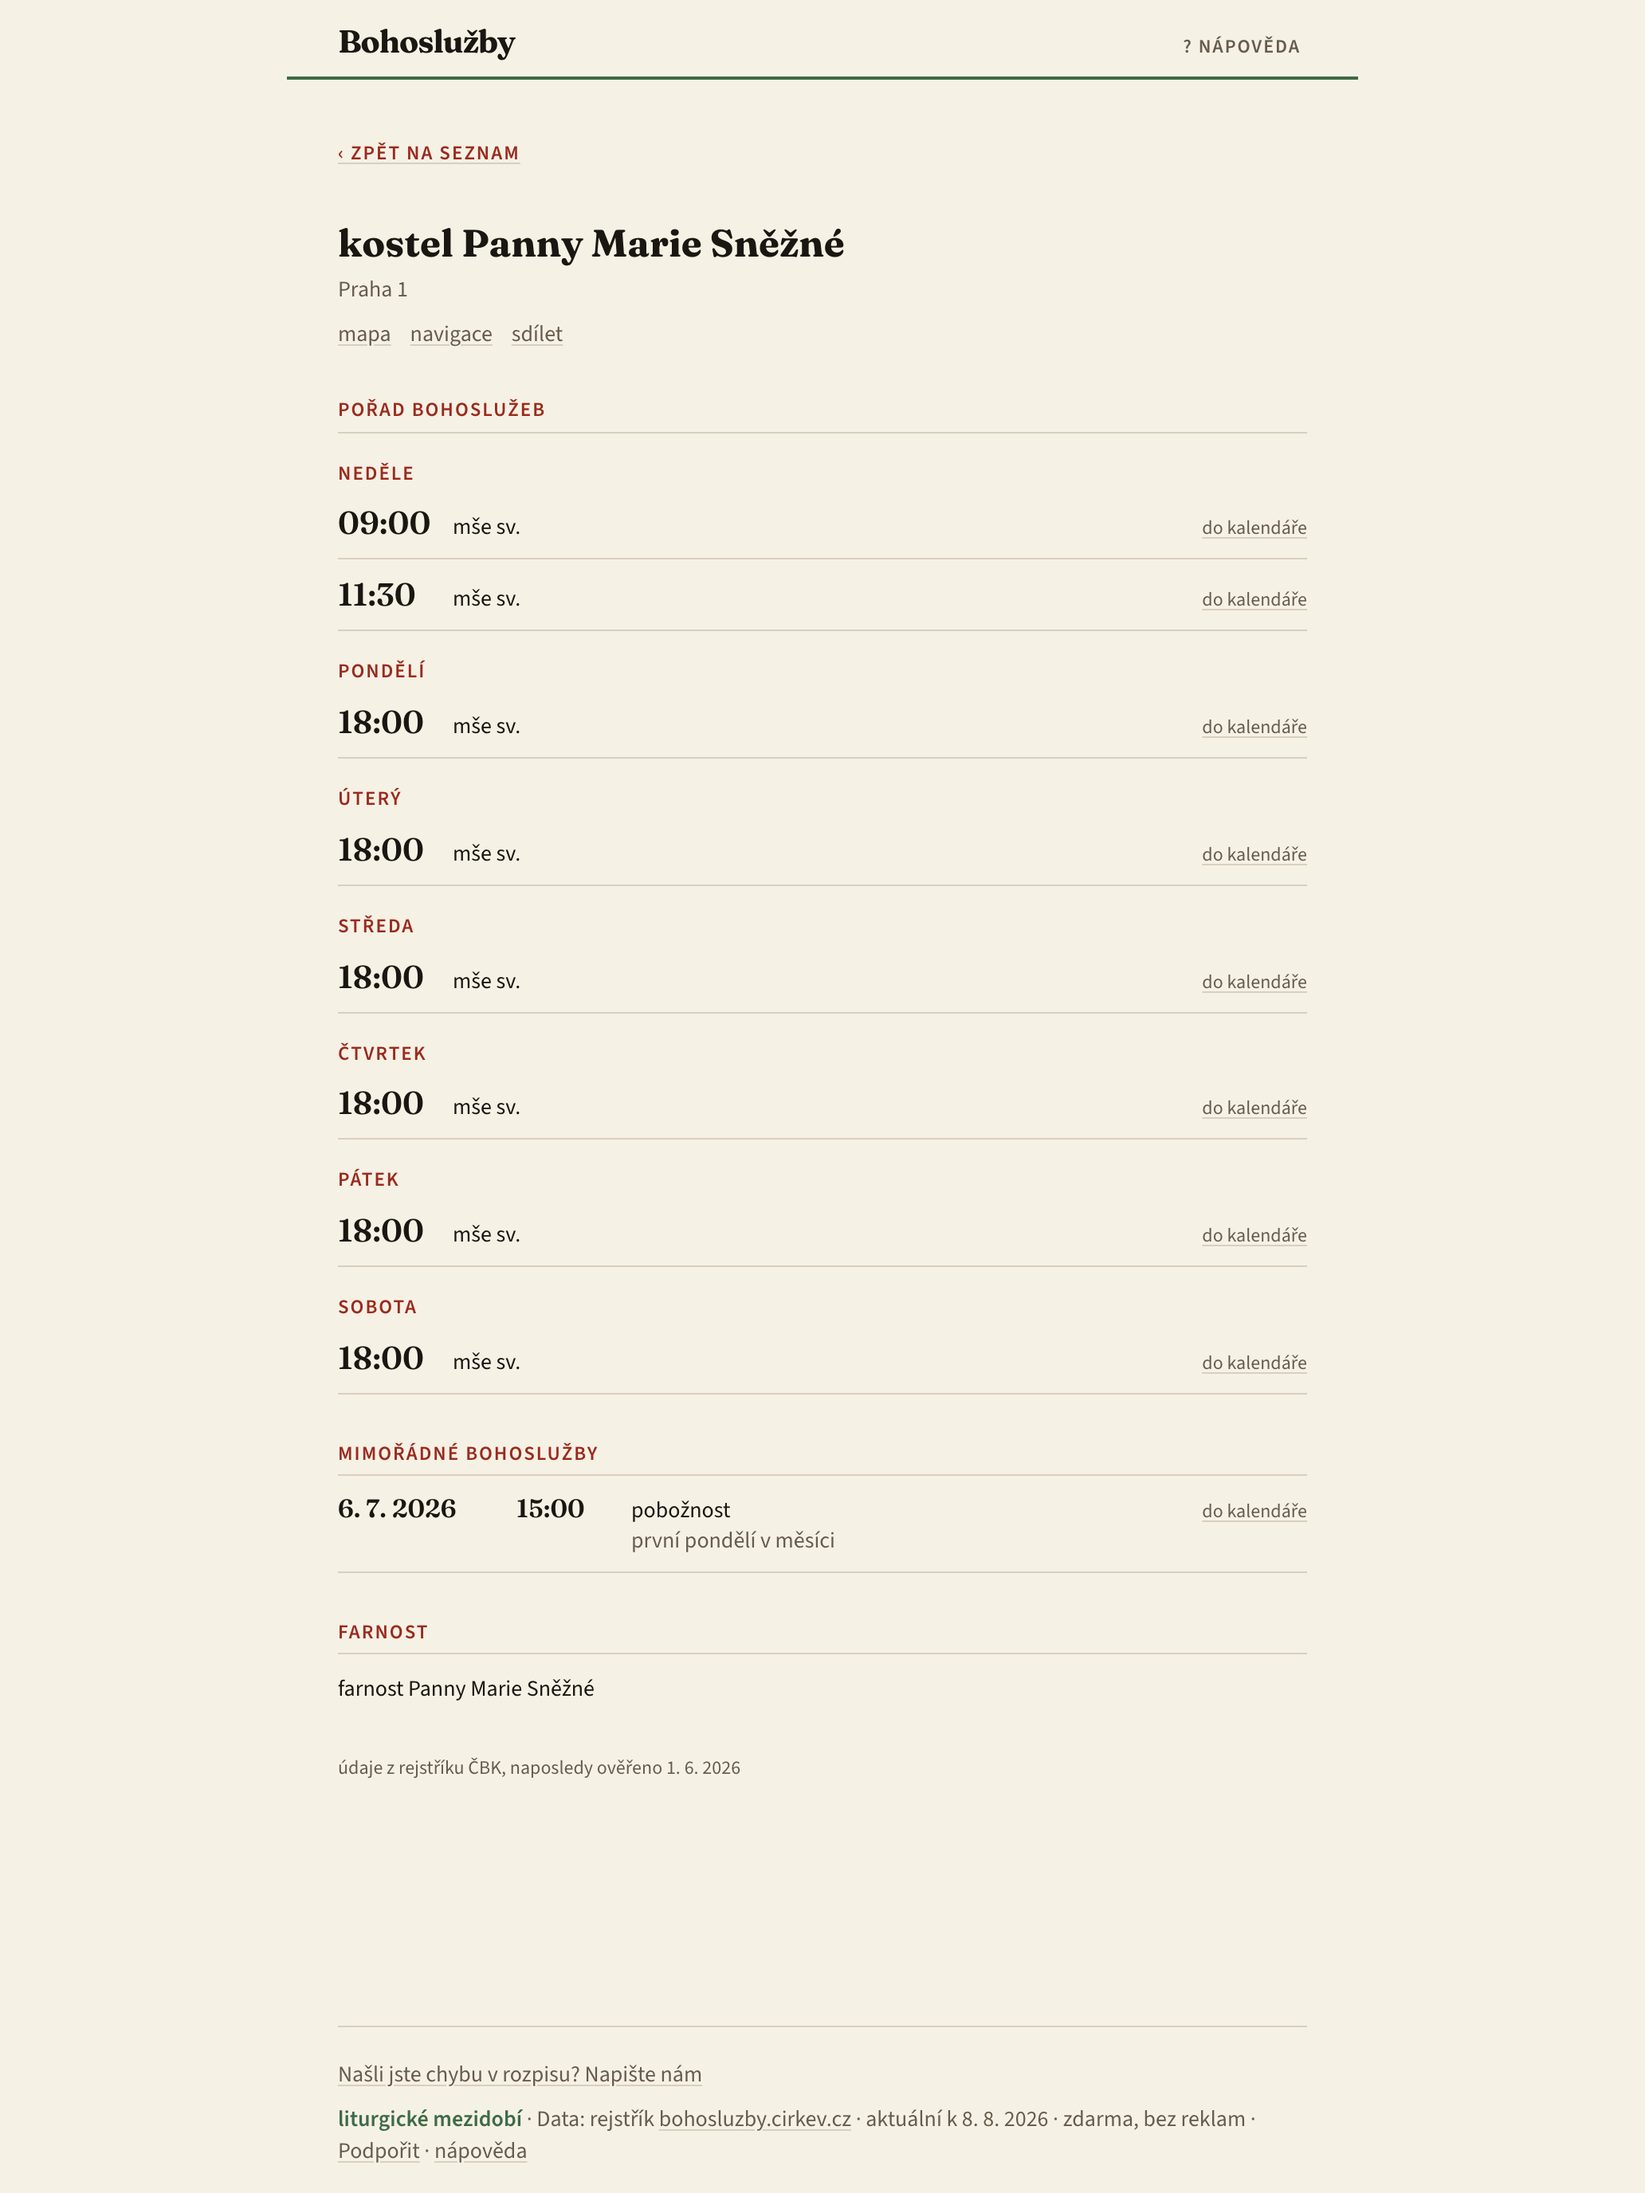
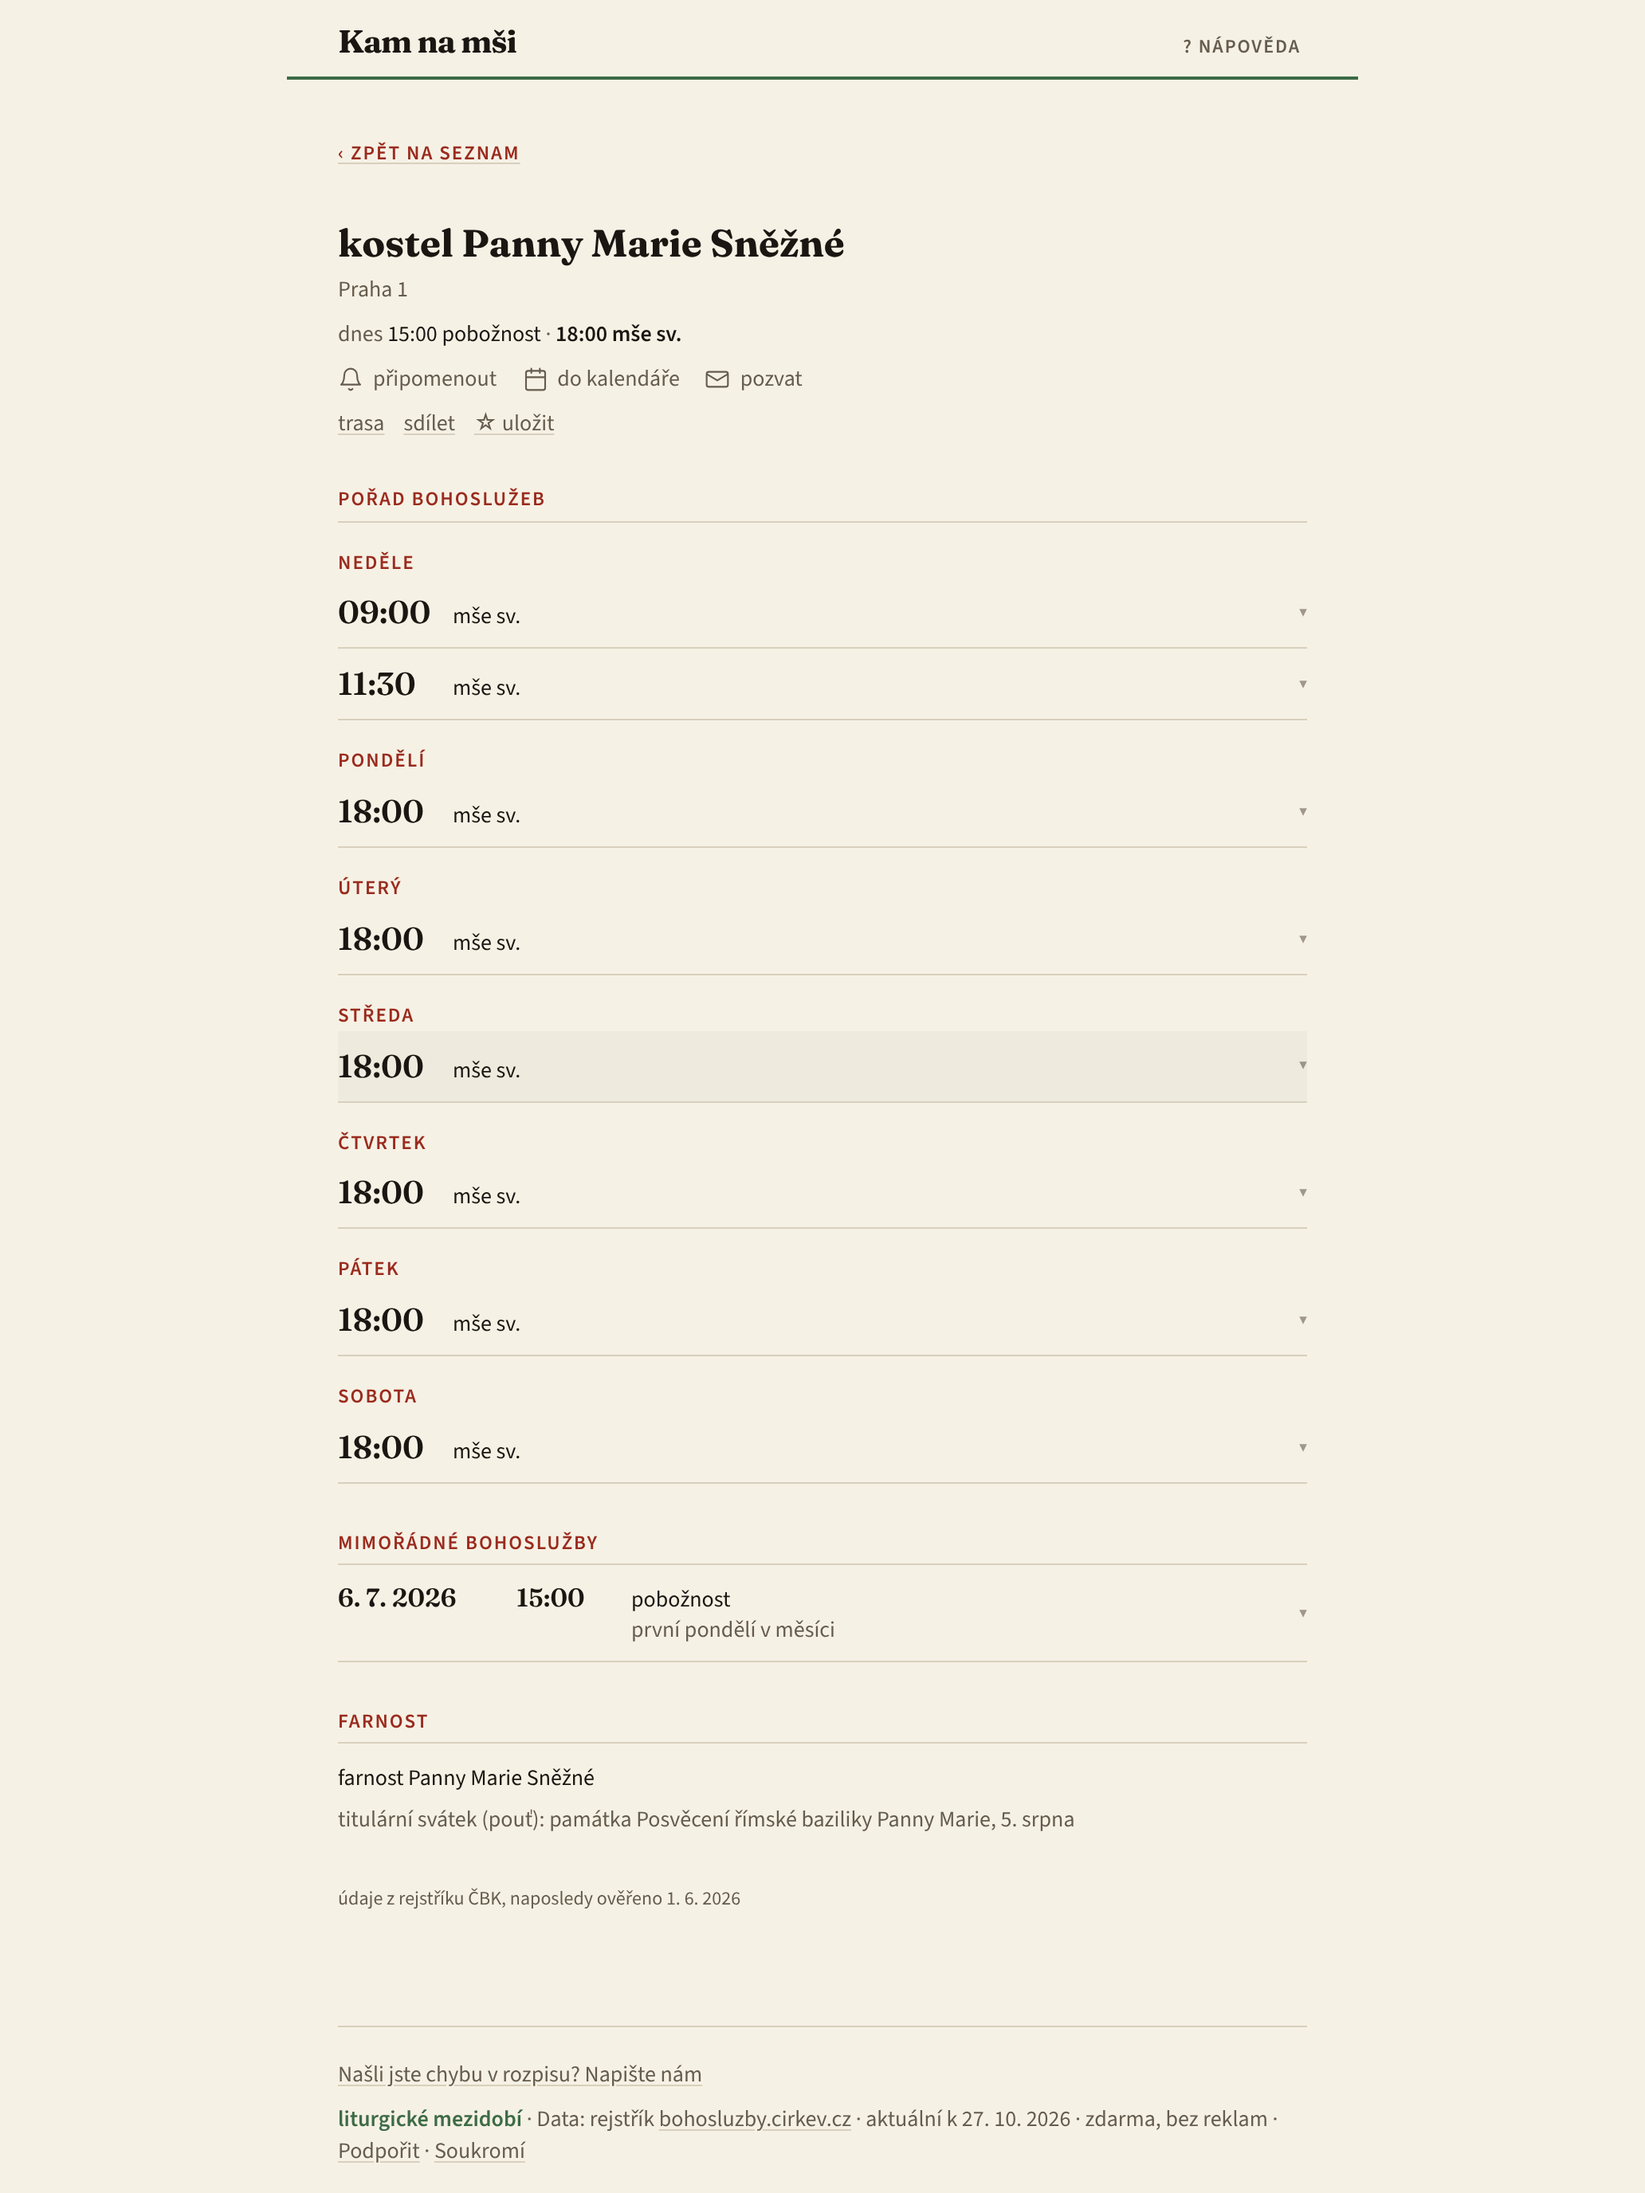
store 1.5: release notes, description, fresh screenshots; Advent nomination text; hand-back
Claude-Session: https://claude.ai/code/session_017mKbabRUGjLHwn1k2PHwjP

diff --git a/docs/store/nomination-advent-2026.md b/docs/store/nomination-advent-2026.md
@@ -1,0 +1,66 @@
+# App Store featuring nomination — Advent and Christmas 2026
+
+For Pavol to submit. Not submitted by an agent. Apple asks for nominations ahead of time: two to
+three weeks is the usual advice, and three months for a launch. Advent starts on Sun 29 Nov, so
+submit **by Thu 12 Nov**.
+
+**Before submitting:** version 1.5 with Czech listed as a language (the build after 91, see
+`docs/review/2026-11-07-store-1.5.json`) should be submitted for review, so the nominated app is
+the one Apple sees as Czech.
+
+## Where (App Store Connect)
+Your role needs to be Account Holder, Admin, App Manager or Marketing.
+
+1. App Store Connect → **Apps** → **Kam na mši**.
+2. **Distribution** tab → in the sidebar under **Featuring**, **Nominations**.
+3. **＋** next to Nominations → **Create Nomination**.
+4. Fill in the fields below. The nomination is saved as a draft until you press **Submit**.
+
+## Fields (English, for Apple's form)
+
+**Nomination type:** New Content
+
+**Name:** Advent and Christmas Mass times across Czechia
+
+**Description:**
+> Kam na mši ("Where to Mass") shows the nearest Catholic Mass from where you are, with the time
+> left to get there, for almost 4,000 churches in the Czech Republic. The schedules come from the
+> Czech Bishops' Conference registry.
+>
+> For Advent and Christmas 2026 the app covers the services people look for once a year:
+> roráty (the Czech Advent dawn Masses, often by candlelight) and the Christmas Masses. Times the
+> registry lacks are added from the parishes' own Advent and Christmas notices, each with its
+> source. Many Czechs who rarely go to church look for a Mass at Christmas; the app answers
+> "which Mass can I still make tonight, and where" in one screen, offline if needed.
+>
+> Version 1.5 adds: tap a Mass time to set a reminder, add it to the calendar or invite someone;
+> map groups that show the time of the Mass matching your choice; and Czech as the app's listed
+> language. Free, no ads, no account; location stays on the phone.
+
+**Publish start date:** 29 November 2026 (1st Sunday of Advent)
+
+**Publish end date (if asked):** 6 January 2027 (Epiphany)
+
+**Countries or regions:** Czechia (Slovakia as well, if offered: Slovak speakers use the Czech UI)
+
+**Related app:** Kam na mši (id 6792305024)
+
+**Supplemental materials (optional):** the 1.5 screenshots in `store-assets/ios/`; the web
+pages at https://bohosluzby.dravec.org/advent/ once they are live on 28 Nov.
+
+## Česky — poznámka pro Pavla
+Nominace je žádost, aby Apple aplikaci zvýraznil v App Storu. Neplatí se za ni a nic
+nezaručuje. Typ „New Content“ jsme zvolili kvůli adventu a Vánocům (roráty a vánoční mše se
+zdrojem u každého řádku). Odeslat ji do 12. 11. Nejdřív ale pošli k revizi verzi 1.5 s češtinou,
+aby Apple viděl aplikaci jako českou.
+
+Texty výše jsou anglicky, protože Applův formulář je anglický. Po odeslání nominace se nic
+nemění v aplikaci ani v jejím záznamu v obchodě.
+
+## What not to claim
+- The roráty and Christmas town pages are on the web (`/advent/`), not inside the app. The app
+  shows the same rows in its lists and on church pages. The description says only what the app does.
+- Coverage depends on the pass (22–28 Nov). Don't name a number of towns before it is done.
+
+Sources: Apple, [Nominate your app for featuring](https://developer.apple.com/help/app-store-connect/manage-featuring-nominations/nominate-your-app-for-featuring)
+and [Nominations template](https://developer.apple.com/help/app-store-connect/reference/nominations/nominations-template).
